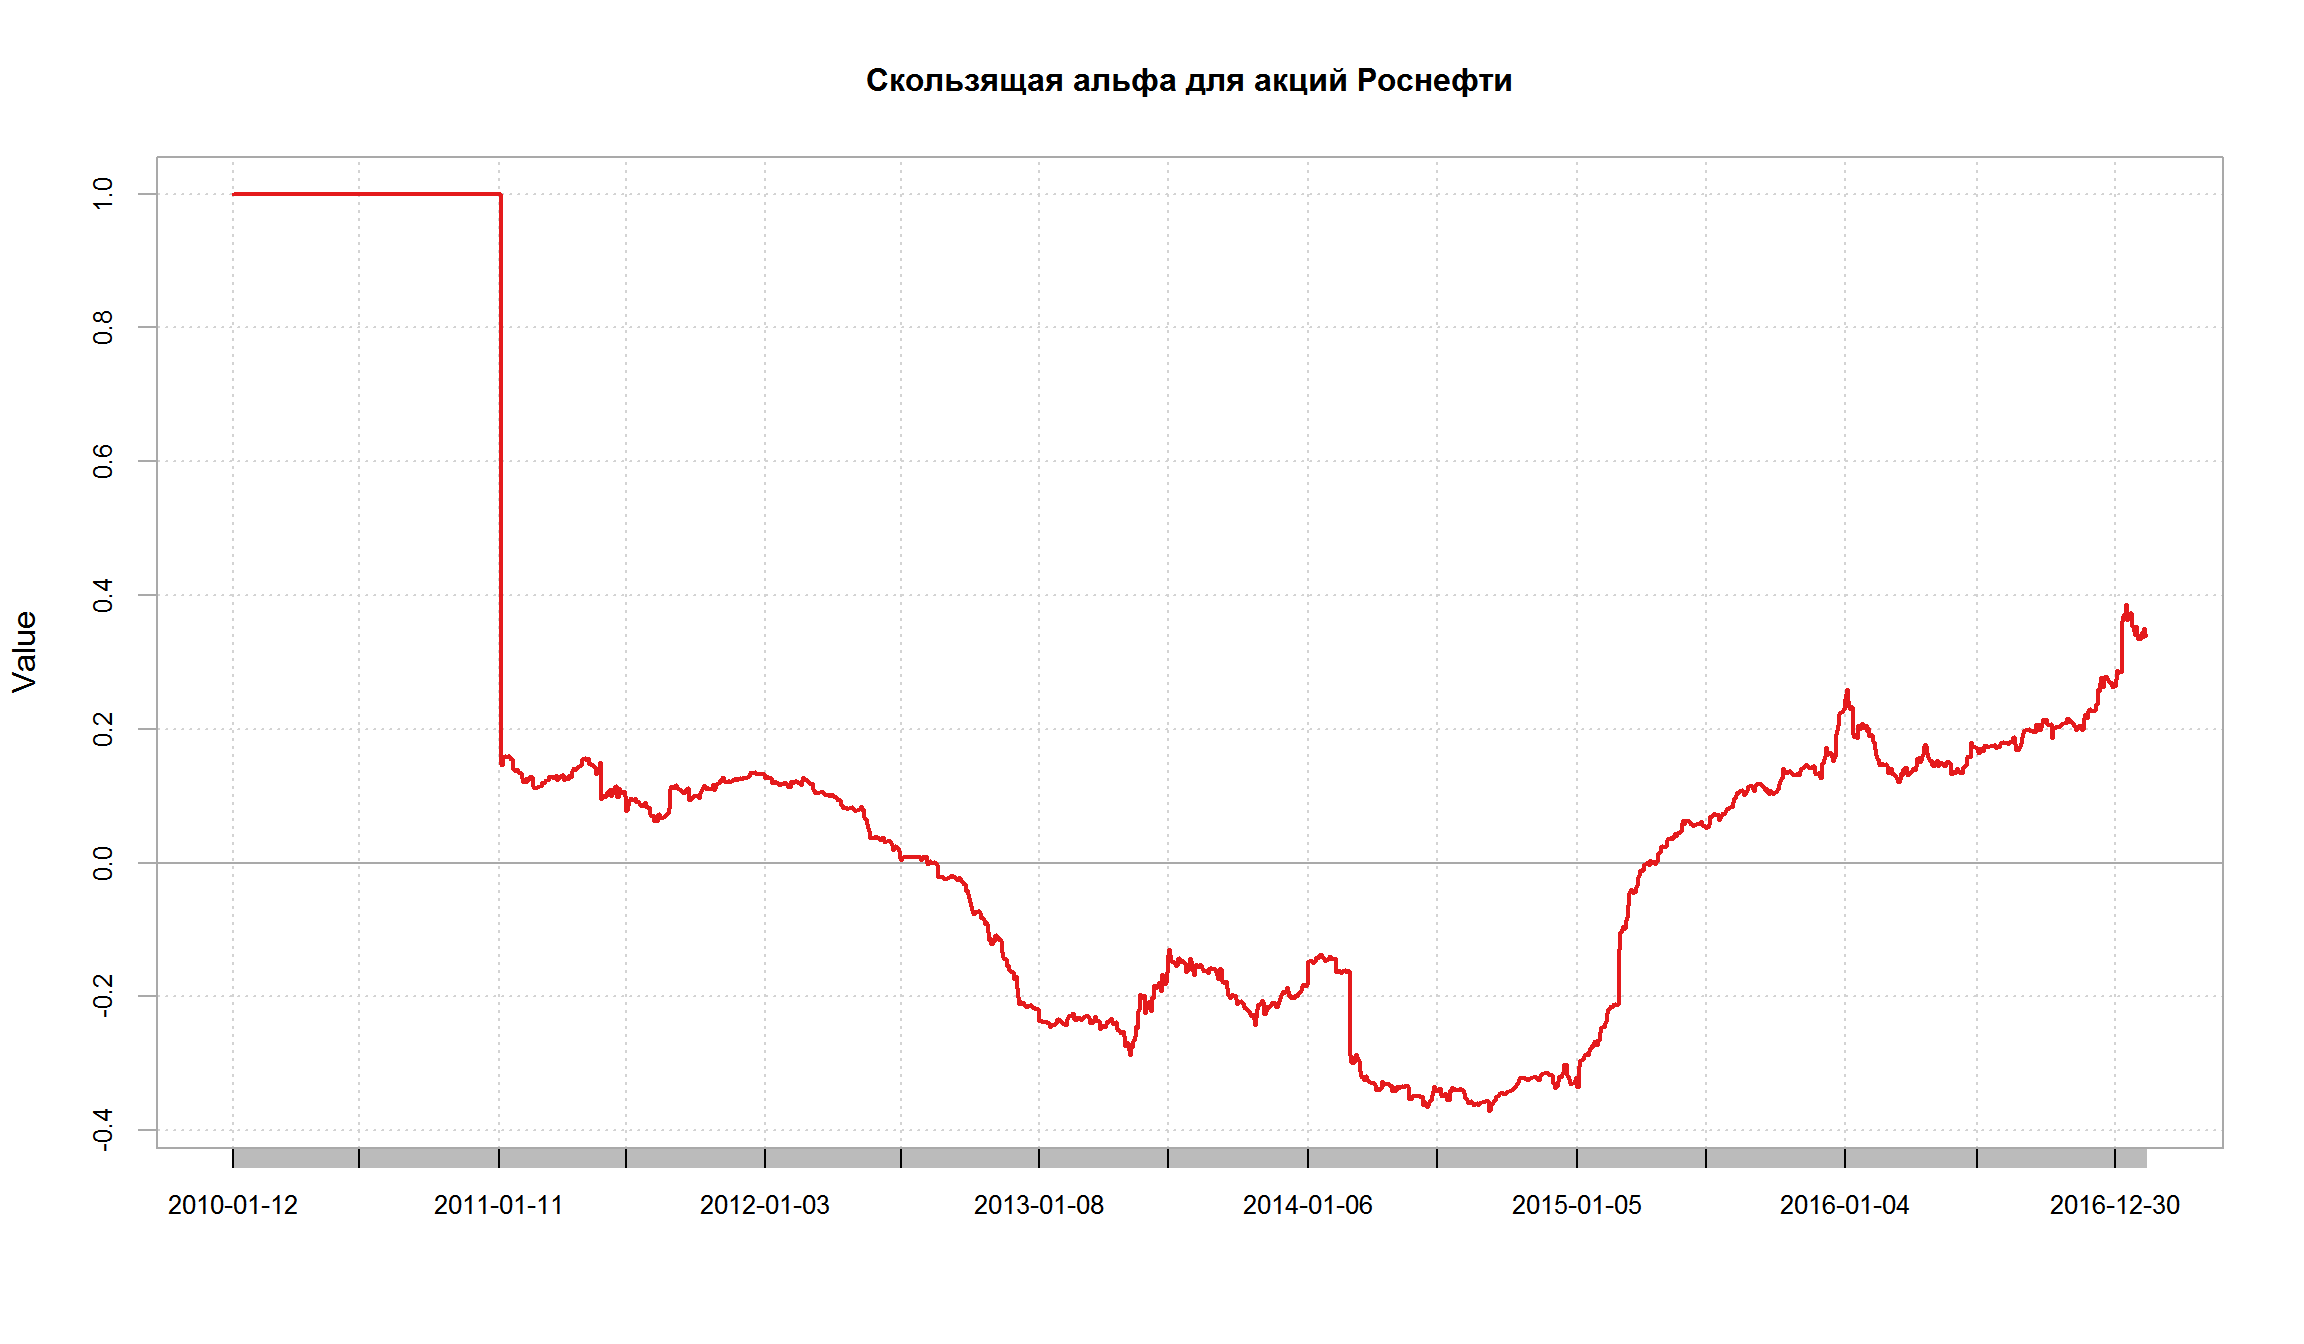
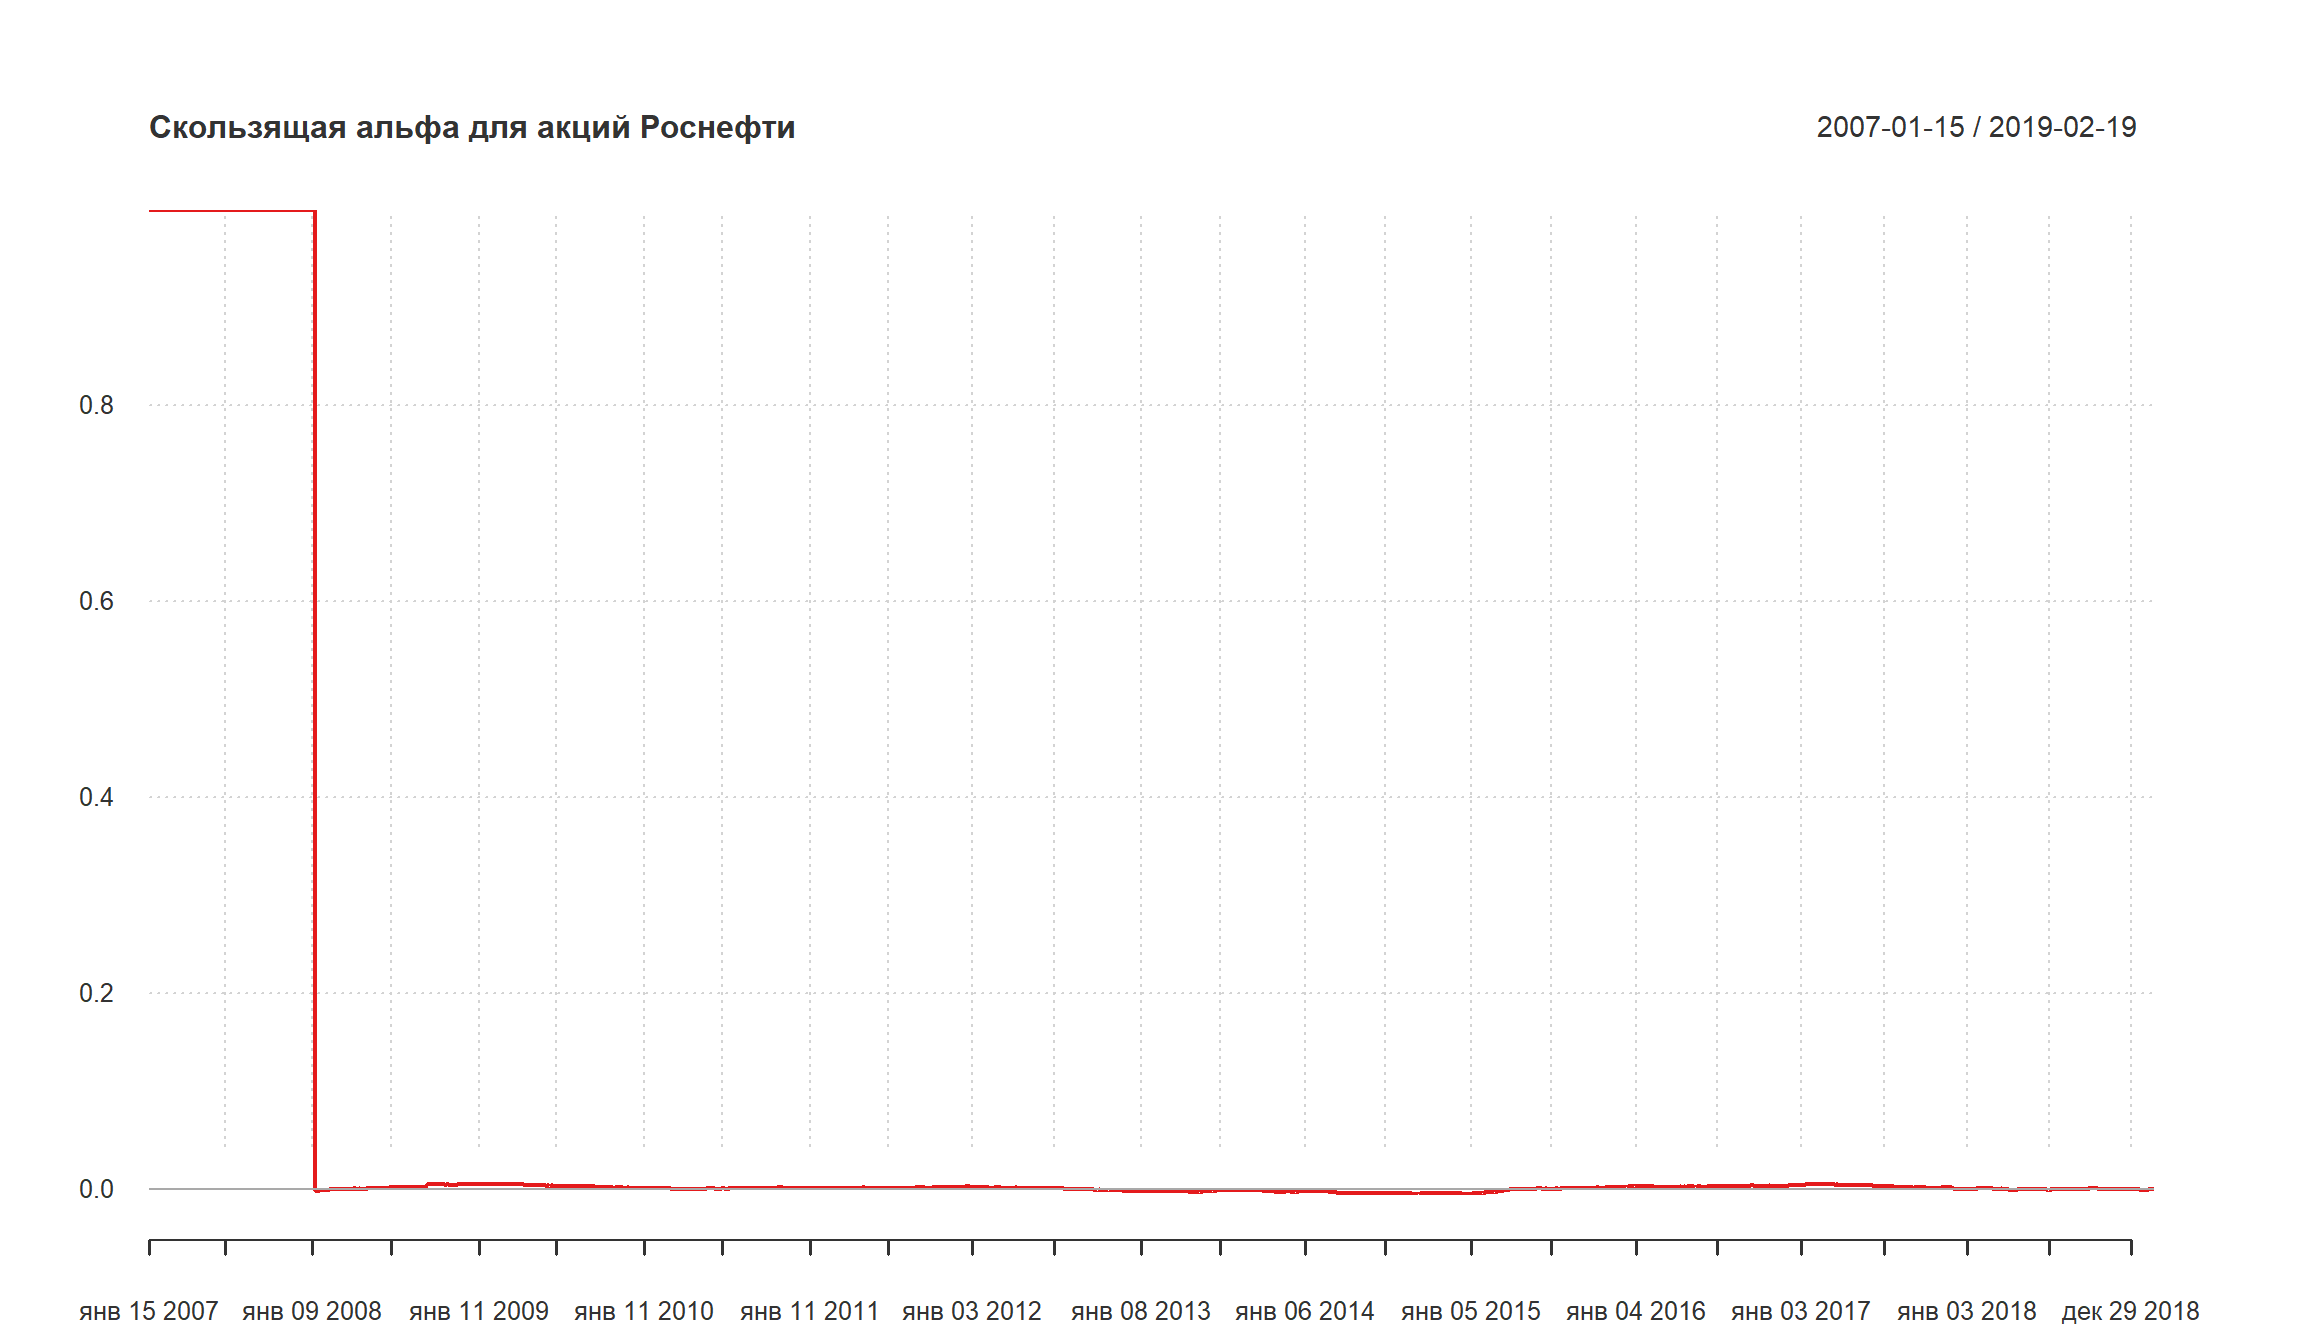
update l8

diff --git a/lectures/lecture-8.html b/lectures/lecture-8.html
@@ -7,7 +7,7 @@
   <meta http-equiv="Content-Style-Type" content="text/css" />
   <meta name="generator" content="pandoc" />
   <meta name="author" content="Салихов Марсель (marcel.salikhov@gmail.com)" />
-  <meta name="date" content="2017-11-16" />
+  <meta name="date" content="2019-02-18" />
   <meta name="copyright" content="НИУ ВШЭ. Салихов Марсель (marcel.salikhov@gmail.com)"/>
   <title>СAPM – Capital Asset Pricing Model   Количественные финансы</title>
   <style type="text/css">code{white-space: pre;}</style>
@@ -59,7 +59,7 @@ code > span.in { color: #60a0b0; font-weight: bold; font-style: italic; } /* Inf
   <p class="author">
 Салихов Марсель (<a href="mailto:marcel.salikhov@gmail.com">marcel.salikhov@gmail.com</a>)
   </p>
-  <p class="date">2017-11-16</p>
+  <p class="date">2019-02-18</p>
 </div>
 <div id="-" class="slide section level2">
 <h2>Цели лекции</h2>
@@ -212,19 +212,19 @@ code > span.in { color: #60a0b0; font-weight: bold; font-style: italic; } /* Inf
 <p>Коэффициент бета можно рассчитать с помощью обычной линейной регрессии в R:</p>
 <div class="sourceCode"><pre class="sourceCode r"><code class="sourceCode r"><span class="co"># OnDate &lt;- start.date &lt;- as.Date(&#39;2010-01-01&#39;)</span>
 <span class="co"># ToDate &lt;- end.date &lt;- Sys.Date()</span>
-<span class="co"># ROSN &lt;- rusquant::getSymbols.Finam(&#39;ROSN&#39;, from = start.date) # роснефть</span>
-<span class="co"># MICEX &lt;- rusquant::getSymbols.Finam(&#39;MICEX&#39;, from = start.date) # ммвб</span>
-<span class="co"># </span>
-<span class="co"># ROSN.rtn &lt;- diff(log(ROSN$ROSN.Close))</span>
-<span class="co"># MICEX.rtn &lt;- diff(log(MICEX$MICEX.Close))</span>
-<span class="co"># </span>
-<span class="co"># # получить безрисковкую ставку (1-летние ОФЗ)</span>
+<span class="co"># ROSN &lt;- QuantTools::get_finam_data(&#39;ROSN&#39;, from = start.date, to = end.date) # индекс ММВБ </span>
+<span class="co"># ROSN &lt;- quant_tools_to_xts(ROSN)</span>
+<span class="co"># MICEX &lt;- QuantTools::get_finam_data(&#39;MICEX&#39;, from = start.date, to = end.date) # индекс ММВБ </span>
+<span class="co"># MICEX &lt;- quant_tools_to_xts(MICEX)</span>
+<span class="co"># ROSN.rtn &lt;- diff(log(ROSN$close))</span>
+<span class="co"># MICEX.rtn &lt;- diff(log(MICEX$close))</span>
+<span class="co"># # </span>
+<span class="co"># # # получить безрисковкую ставку (1-летние ОФЗ)</span>
 <span class="co"># source(&#39;https://raw.githubusercontent.com/quantviews/CBR/master/codes_new/CBR_web.R&#39;)</span>
-<span class="co"># rf_rate &lt;- Isoterm(start.date,end.date,I_Day = 1)</span>
-<span class="co"># </span>
-<span class="co"># rf_rate_d &lt;- (100+rf_rate)^(1/365)-1</span>
+<span class="co"># rf_rate &lt;- MosPrimeXML(start.date,end.date)</span>
+<span class="co"># rf_rate_d &lt;- (100+rf_rate$T1W)^(1/365)-1</span>
 
-<span class="kw">plot</span>(rf_rate, <span class="dt">main =</span> <span class="st">&#39;Безрисковая ставка (1-летняя ставка ОФЗ)&#39;</span>)</code></pre></div>
+<span class="kw">plot</span>(rf_rate_d, <span class="dt">main =</span> <span class="st">&#39;Безрисковая ставка (Mosprime)&#39;</span>)</code></pre></div>
 <p><img src="lecture-8_files/figure-slidy/unnamed-chunk-3-1.png" width="1152" style="display: block; margin: auto;" /></p>
 <div class="sourceCode"><pre class="sourceCode r"><code class="sourceCode r">ex_rosn_rtns &lt;-<span class="st"> </span>ROSN.rtn <span class="op">-</span><span class="st"> </span>rf_rate_d
 ex_micex_rtns &lt;-<span class="st"> </span>MICEX.rtn <span class="op">-</span><span class="st"> </span>rf_rate_d
@@ -237,19 +237,19 @@ lm(formula = ex_rosn_rtns ~ ex_micex_rtns)
 
 Residuals:
       Min        1Q    Median        3Q       Max 
--0.046727 -0.006698 -0.000729  0.006038  0.060207 
+-0.051107 -0.007255 -0.000836  0.006392  0.103810 
 
 Coefficients:
                Estimate Std. Error t value Pr(&gt;|t|)    
-(Intercept)   8.833e-05  3.665e-04   0.241     0.81    
-ex_micex_rtns 1.009e+00  2.003e-02  50.377   &lt;2e-16 ***
+(Intercept)   0.0013127  0.0002704   4.854 1.27e-06 ***
+ex_micex_rtns 1.0966439  0.0115938  94.589  &lt; 2e-16 ***
 ---
 Signif. codes:  0 &#39;***&#39; 0.001 &#39;**&#39; 0.01 &#39;*&#39; 0.05 &#39;.&#39; 0.1 &#39; &#39; 1
 
-Residual standard error: 0.01115 on 1775 degrees of freedom
-  (1 observation deleted due to missingness)
-Multiple R-squared:  0.5884,    Adjusted R-squared:  0.5882 
-F-statistic:  2538 on 1 and 1775 DF,  p-value: &lt; 2.2e-16</code></pre>
+Residual standard error: 0.01232 on 2978 degrees of freedom
+  (28 observations deleted due to missingness)
+Multiple R-squared:  0.7503,    Adjusted R-squared:  0.7502 
+F-statistic:  8947 on 1 and 2978 DF,  p-value: &lt; 2.2e-16</code></pre>
 <p>Интерпретация:</p>
 <ol style="list-style-type: decimal">
 <li><p>Значение t-статистики при константе равно 0,24. Мы не можем отвергнуть гипотезу о том, что значение коэффициента не равно нулю.</p></li>
@@ -268,18 +268,25 @@ lm(formula = ex_rosn_rtns ~ ex_micex_rtns + 0)
 
 Residuals:
       Min        1Q    Median        3Q       Max 
--0.046714 -0.006652 -0.000700  0.006056  0.059870 
+-0.053496 -0.006225  0.000014  0.007282  0.112550 
 
 Coefficients:
               Estimate Std. Error t value Pr(&gt;|t|)    
-ex_micex_rtns  1.00587    0.01445   69.59   &lt;2e-16 ***
+ex_micex_rtns 1.065613   0.009709   109.8   &lt;2e-16 ***
 ---
 Signif. codes:  0 &#39;***&#39; 0.001 &#39;**&#39; 0.01 &#39;*&#39; 0.05 &#39;.&#39; 0.1 &#39; &#39; 1
 
-Residual standard error: 0.01115 on 1776 degrees of freedom
-  (1 observation deleted due to missingness)
-Multiple R-squared:  0.7317,    Adjusted R-squared:  0.7315 
-F-statistic:  4843 on 1 and 1776 DF,  p-value: &lt; 2.2e-16</code></pre>
+Residual standard error: 0.01236 on 2979 degrees of freedom
+  (28 observations deleted due to missingness)
+Multiple R-squared:  0.8017,    Adjusted R-squared:  0.8017 
+F-statistic: 1.205e+04 on 1 and 2979 DF,  p-value: &lt; 2.2e-16</code></pre>
+<div class="sourceCode"><pre class="sourceCode r"><code class="sourceCode r"><span class="kw">library</span>(xts)</code></pre></div>
+<pre><code>Loading required package: zoo</code></pre>
+<pre><code>
+Attaching package: &#39;zoo&#39;</code></pre>
+<pre><code>The following objects are masked from &#39;package:base&#39;:
+
+    as.Date, as.Date.numeric</code></pre>
 <div class="sourceCode"><pre class="sourceCode r"><code class="sourceCode r"><span class="kw">plot</span>(<span class="kw">coredata</span>(ex_micex_rtns), <span class="kw">coredata</span>(ex_rosn_rtns), 
      <span class="dt">xlab =</span> <span class="st">&#39;избыточная доходность индекса ММВБ&#39;</span>, <span class="dt">ylab =</span> <span class="st">&#39;избыточная доходность Роснефти&#39;</span>)
 <span class="kw">abline</span>(<span class="kw">lm</span>(ex_rosn_rtns <span class="op">~</span><span class="st"> </span>ex_micex_rtns <span class="op">+</span><span class="st"> </span><span class="dv">0</span>), <span class="dt">col=</span><span class="st">&quot;red&quot;</span>)</code></pre></div>
@@ -290,18 +297,18 @@ F-statistic:  4843 on 1 and 1776 DF,  p-value: &lt; 2.2e-16</code></pre>
 <p>Пакет <code>PerformanceAnalytics</code> предоставляет удобные функции для расчета различных параметров модели CAPM:</p>
 <div class="sourceCode"><pre class="sourceCode r"><code class="sourceCode r"><span class="kw">library</span>(PerformanceAnalytics)
 
-<span class="kw">CAPM.beta</span>(<span class="dt">Ra =</span> ROSN.rtn,<span class="dt">Rb =</span> MICEX.rtn,<span class="dt">Rf =</span> rf_rate)</code></pre></div>
-<pre><code>[1] 1.009478</code></pre>
-<div class="sourceCode"><pre class="sourceCode r"><code class="sourceCode r"><span class="kw">CAPM.alpha</span>(<span class="dt">Ra =</span> ROSN.rtn,<span class="dt">Rb =</span> MICEX.rtn,<span class="dt">Rf =</span> rf_rate)</code></pre></div>
-<pre><code>[1] 0.009556679</code></pre>
+<span class="kw">CAPM.beta</span>(<span class="dt">Ra =</span> ROSN.rtn,<span class="dt">Rb =</span> MICEX.rtn,<span class="dt">Rf =</span> rf_rate_d)</code></pre></div>
+<pre><code>[1] 1.094767</code></pre>
+<div class="sourceCode"><pre class="sourceCode r"><code class="sourceCode r"><span class="kw">CAPM.alpha</span>(<span class="dt">Ra =</span> ROSN.rtn,<span class="dt">Rb =</span> MICEX.rtn,<span class="dt">Rf =</span> rf_rate_d)</code></pre></div>
+<pre><code>[1] 0.001258904</code></pre>
 </div>
 <div id="---rolling-beta----performanceanalytics" class="slide section level2">
 <h2>Расчет скользящей беты (rolling <span class="math inline">\(\beta\)</span>) с помощью пакета PerformanceAnalytics</h2>
 <p>Пакет <code>PerformanceAnalytics</code> дает возможность быстро делать “скользящие” оценки коэффициентов – то есть мы каждый раз используем лишь X предыдущих значений для расчетов (в данном случаем X = 250, это примерно расчет за последние 365 календарных дней)</p>
-<div class="sourceCode"><pre class="sourceCode r"><code class="sourceCode r"><span class="kw">chart.RollingRegression</span>(<span class="dt">Ra =</span> ROSN.rtn,<span class="dt">Rb =</span> MICEX.rtn,<span class="dt">Rf =</span> rf_rate,<span class="dt">width =</span> <span class="dv">250</span>, <span class="dt">attribute =</span> <span class="st">&quot;Beta&quot;</span>,
+<div class="sourceCode"><pre class="sourceCode r"><code class="sourceCode r"><span class="kw">chart.RollingRegression</span>(<span class="dt">Ra =</span> ROSN.rtn,<span class="dt">Rb =</span> MICEX.rtn,<span class="dt">Rf =</span> rf_rate_d,<span class="dt">width =</span> <span class="dv">250</span>, <span class="dt">attribute =</span> <span class="st">&quot;Beta&quot;</span>,
                         <span class="dt">main =</span> <span class="st">&#39;Скользящая бета для акций Роснефти&#39;</span>)</code></pre></div>
 <p><img src="lecture-8_files/figure-slidy/unnamed-chunk-6-1.png" width="1152" style="display: block; margin: auto;" /></p>
-<div class="sourceCode"><pre class="sourceCode r"><code class="sourceCode r"><span class="kw">chart.RollingRegression</span>(<span class="dt">Ra =</span> ROSN.rtn,<span class="dt">Rb =</span> MICEX.rtn,<span class="dt">Rf =</span> rf_rate,<span class="dt">width =</span> <span class="dv">250</span>, <span class="dt">attribute =</span> <span class="st">&quot;Alpha&quot;</span>,
+<div class="sourceCode"><pre class="sourceCode r"><code class="sourceCode r"><span class="kw">chart.RollingRegression</span>(<span class="dt">Ra =</span> ROSN.rtn,<span class="dt">Rb =</span> MICEX.rtn,<span class="dt">Rf =</span> rf_rate_d,<span class="dt">width =</span> <span class="dv">250</span>, <span class="dt">attribute =</span> <span class="st">&quot;Alpha&quot;</span>,
                         <span class="dt">main =</span> <span class="st">&#39;Скользящая альфа для акций Роснефти&#39;</span>)</code></pre></div>
 <p><img src="lecture-8_files/figure-slidy/unnamed-chunk-6-2.png" width="1152" style="display: block; margin: auto;" /></p>
 <p>Одна из проблем с использованием CAPM – по факту оценки коэффициентов не являются устойчивыми во времени.</p>
@@ -370,7 +377,7 @@ F-statistic:  4843 on 1 and 1776 DF,  p-value: &lt; 2.2e-16</code></pre>
 <p>Настоящие портфели имеют плоское соотношение между бетой и ожидаемой доходностью.</p>
 </div>
 <div id="----" class="slide section level2">
-<h2>Трехфакторня модель Фамы и Френча</h2>
+<h2>Трехфакторная модель Фамы и Френча</h2>
 <ul>
 <li>В ответ на эмпирические проблемы CAPM, Eugene Fama и Kenneth French предложили с 1992 году ее модификацию - так называемую трех-факторную модель Fama-French model.</li>
 </ul>
